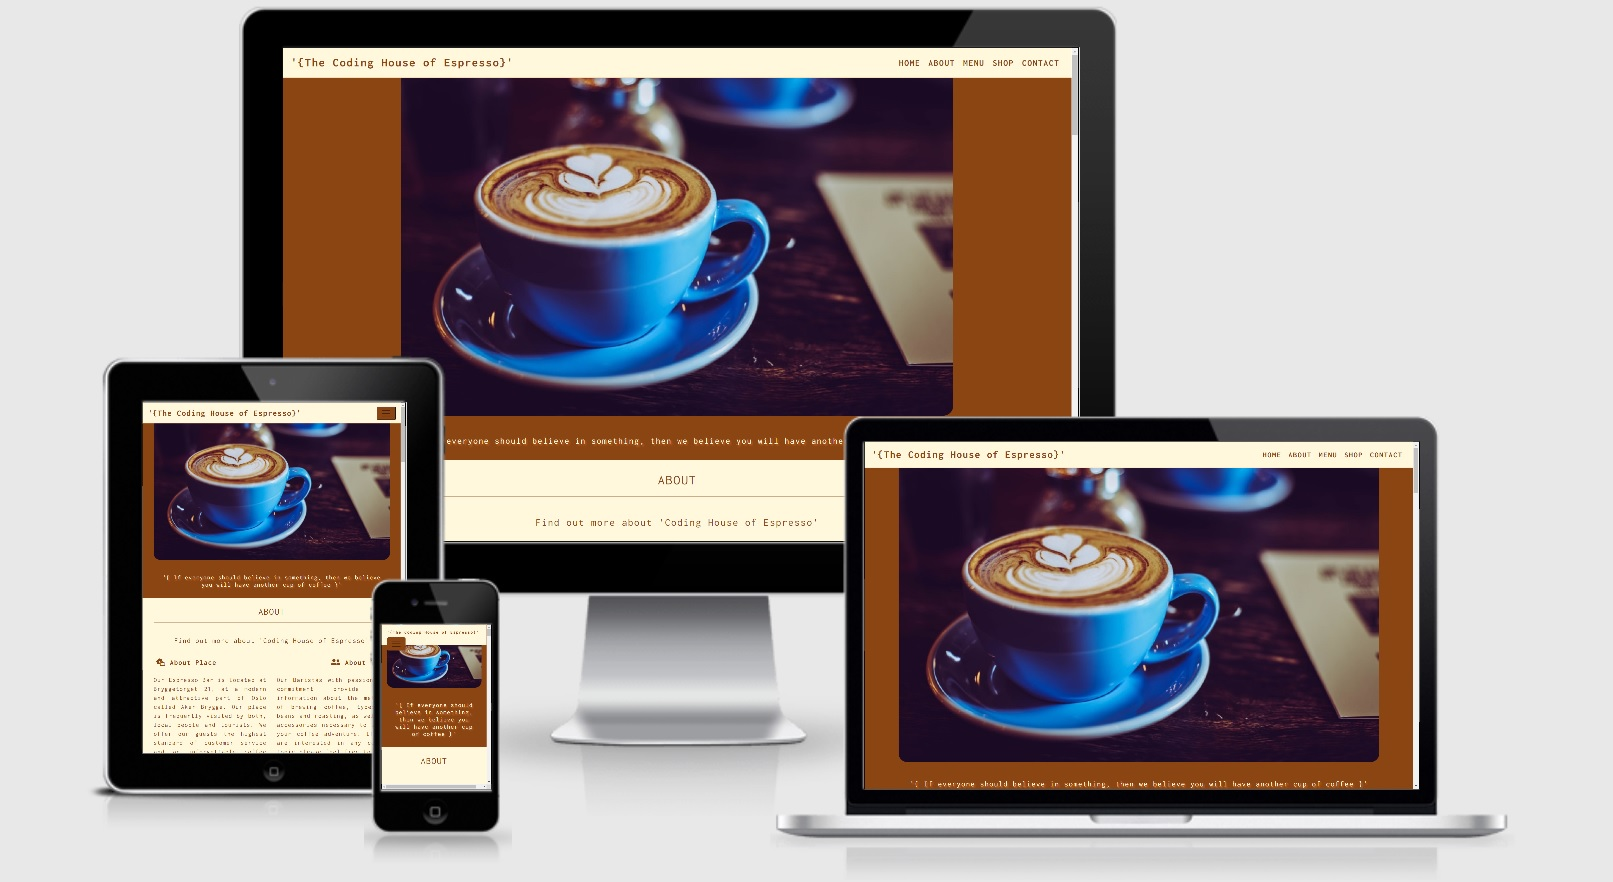
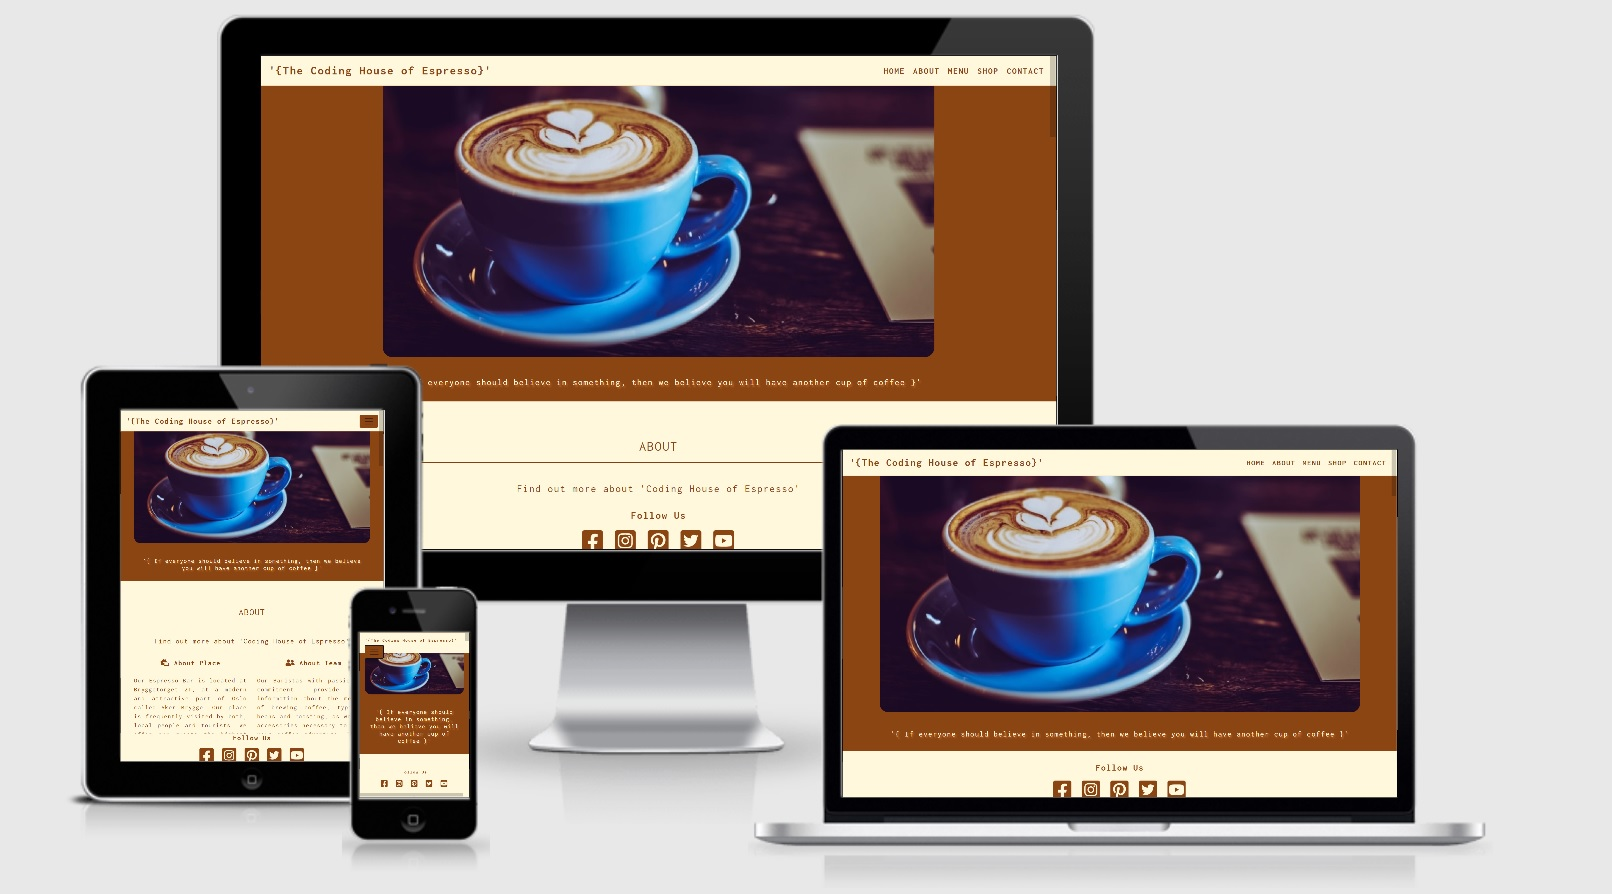
add mockup to readme, resize home image, fix footer media

diff --git a/index.html b/index.html
@@ -18,7 +18,7 @@
             <!-- Credit - Code snippet from Bootsrap 4 components for proper responsive styling - https://getbootstrap.com/docs/4.0/components/navbar/ -->
             <nav class="navbar navbar-expand-lg navbar-light bg-light sticky-top">
                 <a class="navbar-brand" href="index.html">'{The Coding House of Espresso}'</a>
-                <button class="navbar-toggler" data-toggle="collapse" type="button" data-target="#navbarNav" aria-controls="navbarNav" aria-expanded="false" aria-label="Toggle navigation">
+                <button class="navbar-toggler" type="button" data-toggle="collapse" data-target="#navbarNav" aria-controls="navbarNav" aria-expanded="false" aria-label="Toggle navigation">
                     <span class="navbar-toggler-icon"></span>
                 </button>
                 <div class="collapse navbar-collapse justify-content-end" id="navbarNav">
@@ -48,7 +48,7 @@
             <div id="home-image" class="container">
                 <div class="row">
                     <div class="col">
-                        <img src="assets/images/heropic.jpg" alt="Blue cup of coffe with latte art" />
+                        <img src="assets/images/homeimg.jpg" alt="Blue cup of coffe with latte art" />
                     </div>
                 </div>
             </div>
@@ -302,6 +302,26 @@
             <br />
             <div class="container">
                 <div class="row">
+                    <div class="col-12 col-md-6 write">
+                        <h2><i class="fas fa-envelope-square"></i> Be in touch</h2>
+                        <br />
+                        <form>
+                            <div>
+                                <label for="email">Email address</label><br />
+                                <input type="email" id="email" name="email" required /><br />
+                                <label for="text">Name</label><br />
+                                <input type="text" id="text" name="name" /><br />
+                                <label for="textarea">How we can help?</label><br />
+                                <textarea rows="6" cols="30" id="textarea" name="comment"></textarea>
+                                <br />
+                                <label for="checkbox">Newsletter</label>
+                                <input type="checkbox" id="checkbox" name="checkbox" /> Yes
+                                <br />
+                                <input type="submit" class="btn" value="Send!" />
+                            </div>
+                        </form>
+                    </div>
+                    <br />
                     <div class="col-12 col-md-6 address">
                         <h2><i class="fas fa-address-card"></i> Address</h2>
                         <br />
@@ -317,25 +337,6 @@
                             <b>Saturday - Sunday:</b> 10.00-18.00<br />
                         </p>
                     </div>
-                    <div class="col-12 col-md-6 form">
-                        <h2><i class="fas fa-envelope-square"></i> Be in touch</h2>
-                        <br />
-                        <form>
-                            <div>
-                                <label for="email">Email address</label><br />
-                                <input type="email" id="email" name="email" required /><br />
-                                <label for="text">Name</label><br />
-                                <input type="text" id="text" name="name" /><br />
-                                <label for="textarea">How we can help?</label><br />
-                                <textarea rows="5" cols="30" id="textarea" name="comment"></textarea>
-                                <br />
-                                <label for="checkbox">Newsletter</label>
-                                <input type="checkbox" id="checkbox" name="checkbox" /> Yes
-                                <br />
-                                <input type="submit" class="btn" value="Send!" />
-                            </div>
-                        </form>
-                    </div>
                 </div>
             </div>
             <br />
@@ -343,29 +344,31 @@
         <br />
 
         <!-- Social Media -->
-        <!-- Credit - Inspiration for footer from course content walkthrough project 'Love Running' by Code Institute -->
-        <footer>
-            <h2>Follow Us</h2>
-            <ul class="social-media">
-                <li>
-                    <a href="https://www.facebook.com/" target="_blank"><i class="fab fa-facebook-square"></i></a>
-                </li>
-                <li>
-                    <a href="https://www.instagram.com/" target="_blank"><i class="fab fa-instagram-square"></i></a>
-                </li>
-                <li>
-                    <a href="https://www.pinterest.com/" target="_blank"><i class="fab fa-pinterest-square"></i></a>
-                </li>
-                <li>
-                    <a href="https://twitter.com/" target="_blank"><i class="fab fa-twitter-square"></i></a>
-                </li>
-                <li>
-                    <a href="https://www.youtube.com/" target="_blank"><i class="fab fa-youtube-square"></i></a>
-                </li>
-            </ul>
-            <!-- Credit - Information on how to create a copyright symbol - https://www.w3schools.com/html/html_symbols.asp -->
-            <p>&copy; MC ❁ 2020</p>
-        </footer>
+        <!-- Credit - Inspiration for footer from course content walkthrough project 'Love Running' by Code Institute, and w3schools.com how to create sticky element https://www.w3schools.com/howto/howto_css_sticky_element.asp-->
+        <div class="sticky-footer">
+            <footer>
+                <h2>Follow Us</h2>
+                <ul class="social-media">
+                    <li>
+                        <a href="https://www.facebook.com/" target="_blank"><i class="fab fa-facebook-square"></i></a>
+                    </li>
+                    <li>
+                        <a href="https://www.instagram.com/" target="_blank"><i class="fab fa-instagram-square"></i></a>
+                    </li>
+                    <li>
+                        <a href="https://www.pinterest.com/" target="_blank"><i class="fab fa-pinterest-square"></i></a>
+                    </li>
+                    <li>
+                        <a href="https://twitter.com/" target="_blank"><i class="fab fa-twitter-square"></i></a>
+                    </li>
+                    <li>
+                        <a href="https://www.youtube.com/" target="_blank"><i class="fab fa-youtube-square"></i></a>
+                    </li>
+                </ul>
+                <!-- Credit - Information on how to create a copyright symbol - https://www.w3schools.com/html/html_symbols.asp -->
+                <p>&copy; MC ❁ 2020</p>
+            </footer>
+        </div>
 
         <script src="https://cdnjs.cloudflare.com/ajax/libs/jquery/3.5.1/jquery.slim.min.js"></script>
         <script src="https://cdnjs.cloudflare.com/ajax/libs/popper.js/1.16.1/umd/popper.min.js"></script>

diff --git a/assets/css/style.css b/assets/css/style.css
@@ -80,6 +80,8 @@ nav {
     width: 100%;
 }
 
+
+/*-- Responsive rules for navigation bar --*/
 @media only screen and (max-width: 600px) {
     .navbar-brand {
         color: saddlebrown !important;
@@ -100,6 +102,7 @@ nav {
     background-size: cover;
     border-radius: 20px;
     align-content: center;
+    padding-top: 1.9rem;
 }
 
 #home-text h3 {
@@ -115,6 +118,7 @@ nav {
 #about-page {
     background-color: cornsilk;
     color: saddlebrown;
+    padding-top: 50px;
 }
 
 #about-page h1 {
@@ -128,14 +132,14 @@ nav {
 }
 
 .place h2 {
-    text-align: left;
+    text-align: center;
     font-weight: bold;
     font-size: 1.3rem;
     padding: 7px;
 }
 
 .team h2 {
-    text-align: right;
+    text-align: center;
     font-weight: bold;
     font-size: 1.3rem;
     padding: 7px;
@@ -190,6 +194,7 @@ nav {
     padding: 3px;
 }
 
+/*-- Responsive rules for gallery --*/
 @media screen and (max-width: 960px) {
     #photo {
         column-count: 2;
@@ -230,6 +235,7 @@ nav {
 #menu-page {
     background-color: saddlebrown;
     color: cornsilk;
+    padding-top: 50px;
 }
 
 #menu-page h1 {
@@ -243,14 +249,14 @@ nav {
 }
 
 .beverages h2 {
-    text-align: left;
+    text-align: center;
     font-weight: bold;
     font-size: 1.3rem;
     padding: 7px;
 }
 
 .bites h2 {
-    text-align: right;
+    text-align: center;
     font-weight: bold;
     font-size: 1.3rem;
     padding: 7px;
@@ -295,6 +301,7 @@ nav {
 #shop-page {
     background-color: cornsilk;
     color: saddlebrown;
+    padding-top: 50px;
 }
 
 #shop-page ul {
@@ -320,14 +327,14 @@ nav {
 }
 
 .coffee h2 {
-    text-align: left;
+    text-align: center;
     font-weight: bold;
     font-size: 1.3rem;
     padding: 7px;
 }
 
 .gifts h2 {
-    text-align: right;
+    text-align: center;
     font-weight: bold;
     font-size: 1.3rem;
     padding: 7px;
@@ -397,6 +404,7 @@ nav {
 #contact-page {
     background-color: saddlebrown;
     color: cornsilk;
+    padding-top: 50px;
 }
 
 #contact-page h1 {
@@ -410,29 +418,28 @@ nav {
 }
 
 .address h2 {
-    text-align: left;
+    text-align: center;
     font-weight: bold;
     font-size: 1.3rem;
     padding: 7px;
 }
 
-.form h2 {
-    text-align: right;
+.write h2 {
+    text-align: center;
     font-weight: bold;
     font-size: 1.3rem;
     padding: 7px;
 }
 
 #contact-page p {
-    text-align: justify;
+    text-align: center;
     font-size: 1.2rem;
     padding-top: 10px;
 }
 
 #contact-page form {
-    text-align: justify;
+    text-align: left;
     font-size: 1.1rem;
-    text-align: right;
 }
 
 #contact-page .btn {
@@ -448,7 +455,7 @@ nav {
 
 /*-- Footer --*/
 footer {
-    height: 80px;
+    height: 5rem;
     color: saddlebrown;
     font-size: 1rem;
 }
@@ -486,4 +493,32 @@ footer p {
     text-align: center;
     font-size: 0.8rem;
     padding-bottom: 10px;
+}
+
+/* -- Credit - w3schools.com how to create sticky element https://www.w3schools.com/howto/howto_css_sticky_element.asp --*/
+.sticky-footer {
+    position: sticky;
+    bottom: 0;
+    height: 5rem;
+    background-color: cornsilk;
+}
+
+/*-- Responsive rules for footer --*/
+@media only screen and (max-width: 600px) {
+  footer {
+    height: 1.5rem;
+}  
+    
+    footer h2 {
+    text-align: center;
+    font-weight: bold;
+    font-size: 0.8rem;
+}
+
+.social-media i {
+    color: saddlebrown;
+    font-size: 1.4rem;
+    padding: 3px;
+    margin: 3px;
+}
 }

diff --git a/README.md b/README.md
@@ -122,6 +122,9 @@ The selection of images has been made to present beverages and food served in th
 The final result of this project is a front-end web application based on the principles of user experience design, accessibility, and responsivity. 
 This is a static front-end web application developed and implemented by using HTML and CSS with additional Bootstrap elements, so required testing was conducted on the basis of visual effects and website layout.
 
+_**General testing results:**_
+<hr>
+
 The first step of the testing process was to create the basic framework of this application and check if the attached links work properly. 
 * **Brand name link** - has been checked and confirmed that directs the user successfully to the home page. 
 * **All links settled in the top navigation panel**  - has been checked that allows the user to flow between individual sections like Home, About, Menu, Shop, Contact.
@@ -137,9 +140,11 @@ When the site developed closer to the final stage, the next test was to check ev
 
 Final tests were about to check grammar and spelling throughout the whole site and Readme file, section by section text was run through [**Grammarly**](https://app.grammarly.com/) application and showed several errors to correct.
 
-The tests were conducted mainly with the use of **Google Chrome** browser, recommended during the course. However, the research also covered other browsers such as **Mozilla Firefox**, **Microsoft Edge**, and **Apple Safari**. In general, after inspecting by use of the tools available in each browser, it was found that the application displays correctly and is responsive to different screen sizes.
+The tests were conducted mainly with the use of **Google Chrome** browser, recommended during the course. However, the research also covered other browsers such as **Mozilla Firefox**, **Microsoft Edge**, and **Apple Safari**. In general, after inspecting by use of the tools available in each browser, it was found that the application displays correctly and is responsive to different screen sizes. In addition, the test was performed live on devices such as **Huawei P20**, **Samsung Galaxy S10**, **iPhone 11**, **iPad 9.7**, **HP Spectre 13**. The result was very good and shown that on all those screen devices website was responsive and displayed as expected. 
 
-Answering to a user story needs: 
+_**Answering to a user story needs:**_ 
+<hr>
+
 * Tests made on the top located navigation bar shown that every person visiting the site will be able to navigate very easily to find interesting content
 * Tests made on the separate sections shown that users will be able to learn about the place and provide services in the shop. Additionally, tests performed on buy here buttons allow the user to order products familiar with the main theme. 
 * Tests made on a contact form allows user to send to the shop bothering questions or subscribe to the newsletter
@@ -150,12 +155,12 @@ Answering to a user story needs:
 # 6. Project barriers and solutions
 
 * Nav-bar solution borrowed from Boostrap showed several issues that were solved during the development of this application. The brand name was not displaying correctly on small screens, this was solved using media query only screen for max-width: 600px. The navigation links to the individual sections showed a tendency to the left side, which was solved by adding the justify-content-end class. The problem also occurred when applying the background color and the font color to the finished navigation, this was solved with value !important which might seem to be overused for this main part of a project to achieve the desired effect. 
-* The hero image for the Home section has been changed several times during the design process. The first and main reason for this was that, from an aesthetic point of view, the photo is too colorful and distracting. The first idea to introduce this photo was that it would refer to the main topic of designing a store for programmers and coffee lovers, but finally, after listening to users' opinions, the photo of the main page was changed to a warm and calm background referring to a standard coffee shop.
+* The hero image for the Home section has been changed several times during the design process. The first and main reason for this was that, from an aesthetic point of view, the photo is too colorful and distracting [example of previous version](/assets/docs/toppicture.jpg). The first idea to introduce this photo was that it would refer to the main topic of designing a store for programmers and coffee lovers, but finally, after listening to users' opinions, the photo of the main page was changed to a warm and calm background referring to a standard coffee shop.
 * In the initial phase of the project, the solution for introducing the gallery was to use Slideshow / Carousel, but due to the lack of ability to use JavaScript, a simple solution was used using the container class to build the visual effect of displaying photos. However, the gallery was not displaying correctly on every device, this was solved by adjusting the size of the photos and adding a media query to the appropriate screen sizes.
 
 # 7. Version Control
 
-Git - free and open-source distributed Version Control System was used to show tracking all changes during the coding process. 
+**Git** - free and open-source distributed Version Control System was used to show tracking all changes during the coding process. 
 Git add, Git commit, Git push commands were used to approve and store files in the repository. 
 
 # 8. Deployment
@@ -163,11 +168,11 @@ Git add, Git commit, Git push commands were used to approve and store files in t
 This project was developed by using GitHub - a code hosting platform and Gitpod - an online Integrated Development Environment. There is no difference between the deployed version and the development version.
 The first step was to create a new "Repository" named Milestone Project 1 in GitHub. Then once opened in Gitpod the whole process started by creating a structure of files and then the very first boilerplate of code, then successively with time whole code structure. Next, the code was pushed to GitHub where was stored in my Repository. 
 ### Deployment using GitHub pages:
-* Navigate to the Git Hub Repository - [**My Repository**](https://github.com/MaggieDaisy/MilestoneProject1-The-Coding-House-of-Espresso)
+* Navigate to the Git Hub Repository - **My Repository**
 * Then, right under the "Settings" section of the GitHub repository, scroll down to "GitHub Pages" section.
 * After, select a "master branch" under "source" drop-down and click "save" button
 * Once selected, this publishes the project to GitHub Pages and then you can click to URL link to go directly to the live deployed page
-### Deployment using Run Locally:
+### How to use Run Locally:
 * The code can be also run locally, optional through clone or download 
 * Navigate and open the repository, click on the green "Code" button, and select either "clone" or "download".
 * The Clone option provides a URL, which you can use on your desktop IDE.
@@ -189,6 +194,7 @@ All the images used in this site were picked from [**Unsplash**](https://unspla
 1. Code snippet from [**Bootsrap 4 components**](https://getbootstrap.com/docs/4.0/components/navbar/) for responsive navigation bar
 1. Gallery form inspiration was borrowed from course content walkthrough project 'Love Running' by Code Institute
 2. Inspiration for footer was borrowed from course content walkthrough project 'Love Running' by Code Institute
+3. Inspiration for making footer as a sticky element [**w3schools**](https://www.w3schools.com/howto/howto_css_sticky_element.asp)
 
 # 10. Acknowledgments
 
